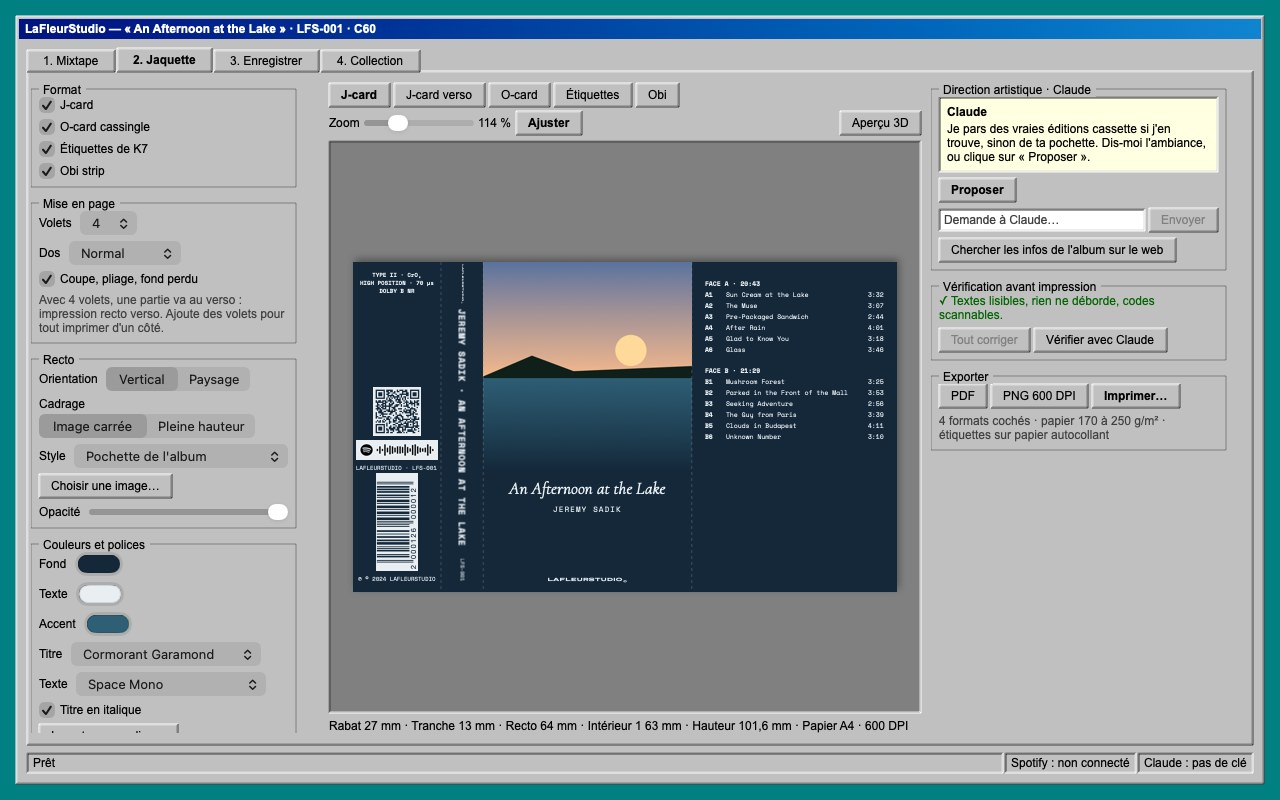
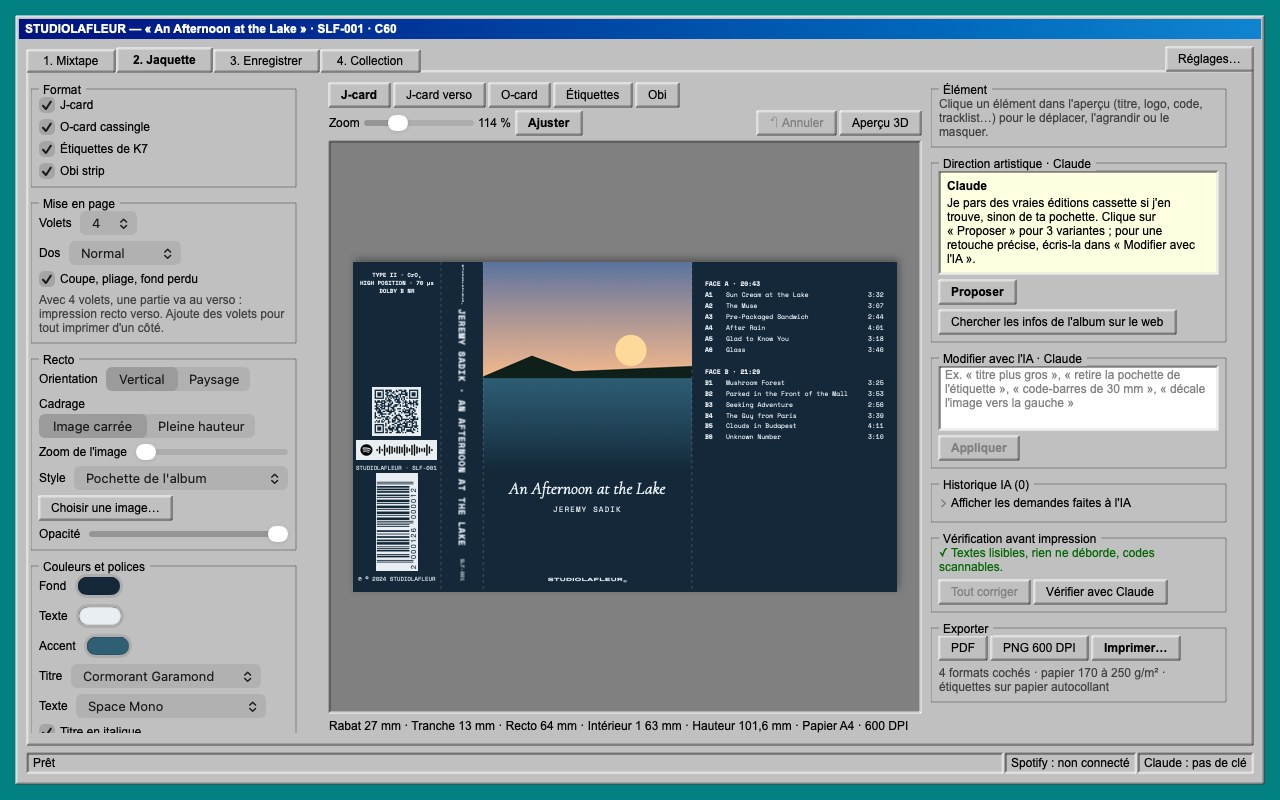
Captures du README au nouveau nom STUDIOLAFLEUR ; plus de cassette vide en double dans la Collection d'exemple

diff --git a/app/Sources/LaFleurStudio/Captures.swift b/app/Sources/LaFleurStudio/Captures.swift
@@ -9,9 +9,14 @@ enum Captures {
     static func lancer(_ dossier: URL) async {
         try? FileManager.default.createDirectory(at: dossier, withIntermediateDirectories: true)
         let tmp = FileManager.default.temporaryDirectory.appendingPathComponent("lafleurstudio-captures-\(UUID().uuidString)")
-        let etat = EtatApp(stockage: Stockage(racine: tmp))
-        etat.prefs.conditionsAcceptees = true
-        etat.projet = demo(pochette: pochette(dans: tmp))
+        // La cassette d'exemple est enregistrée avant le démarrage : la Collection n'a pas de cassette vide en plus.
+        let stockage = Stockage(racine: tmp)
+        var prefs = stockage.preferences()
+        prefs.conditionsAcceptees = true
+        prefs.prochainNumero = 2
+        try? stockage.enregistrer(prefs)
+        try? stockage.enregistrer(demo(pochette: pochette(dans: tmp)))
+        let etat = EtatApp(stockage: stockage)
         let moteur = MoteurEnregistrement()
         await etat.prechargerImages()
 
